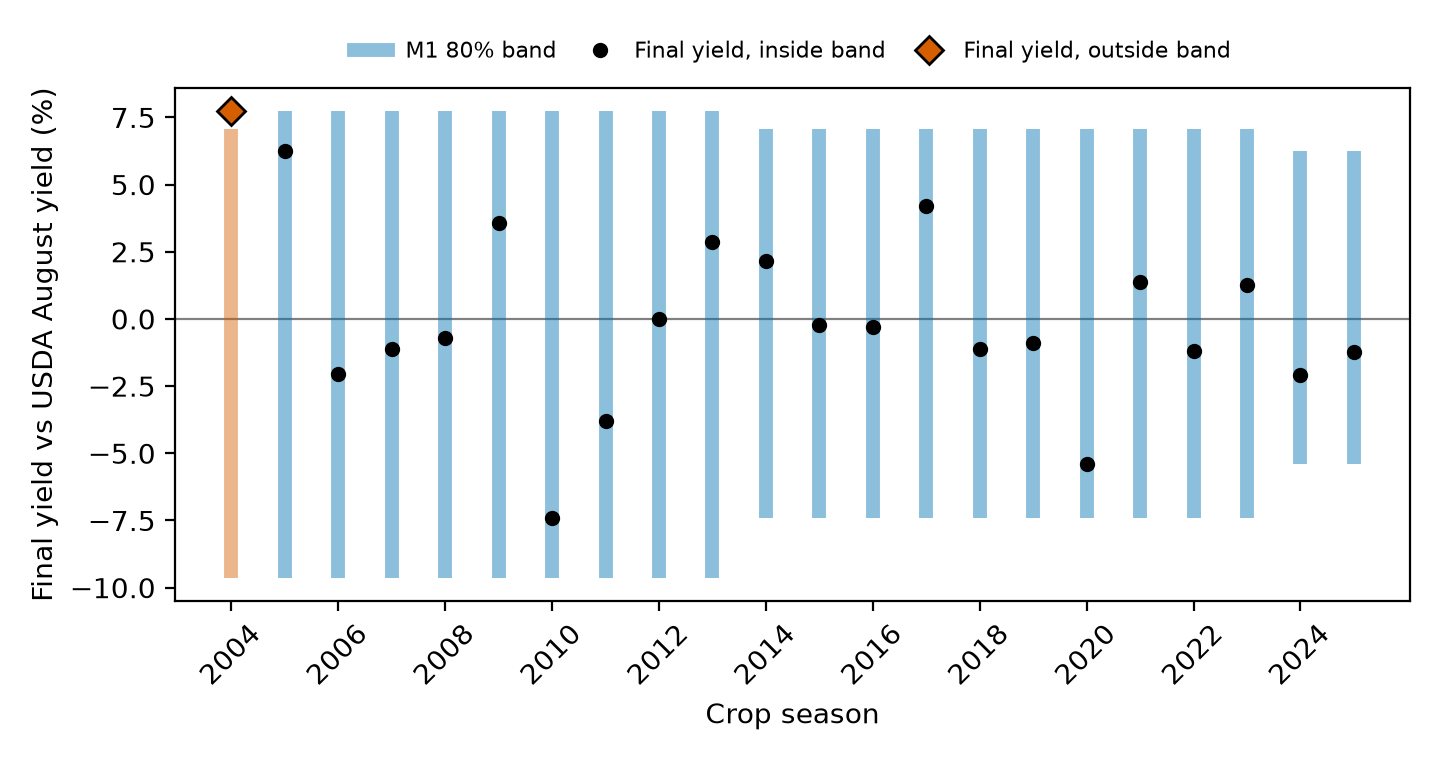
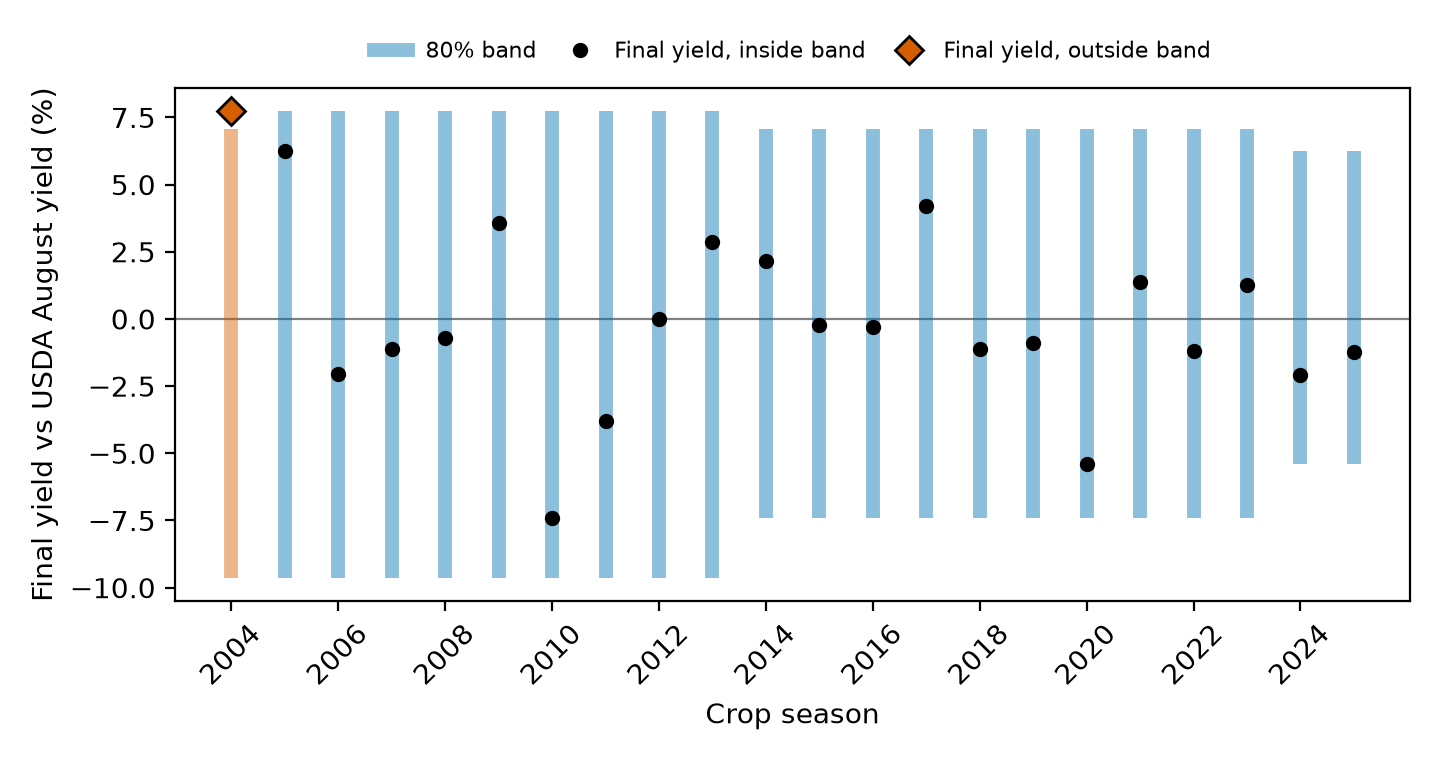
Memo p1 carries the 4-point excess; figure legend drops the M1 label
Claude-Session: https://claude.ai/code/session_019hERjeLyNQnqKChRew4xCp

Changed region(s): [[0.2188, 0.0303, 0.8438, 0.0908]]

diff --git a/src/cfstore/memo.py b/src/cfstore/memo.py
@@ -253,7 +253,7 @@ def figure(out: Path, m1: dict, truths, cov: list[dict], shas: dict) -> None:
     ax.set_xticks([s for s in seasons if s % 2 == 0])
     ax.tick_params(axis="x", labelrotation=45)
     from matplotlib.lines import Line2D
-    ax.legend(handles=[Line2D([], [], color=blue, lw=5, alpha=0.45, label="M1 80% band"),
+    ax.legend(handles=[Line2D([], [], color=blue, lw=5, alpha=0.45, label="80% band"),
                        Line2D([], [], marker="o", color="black", ls="", ms=4.5, label="Final yield, inside band"),
                        Line2D([], [], marker="D", color=verm, mec="black", ls="", ms=7, label="Final yield, outside band")],
               loc="lower center", bbox_to_anchor=(0.5, 1.01), ncol=3, fontsize=8, frameon=False, handlelength=1.5, columnspacing=1.2)

diff --git a/docs/memo.src.md b/docs/memo.src.md
@@ -6,7 +6,7 @@
 
 ## Question
 
-How far can USDA's January final corn yield land from its August print? We put an 80% band around the August print, built from USDA's own past August-to-January misses, and scored it on 22 seasons, 2004–2025. It covered 21 of 22; the pre-registered verdict is "too wide".
+How far can USDA's January final corn yield land from its August print? We put an 80% band around the August print, built from USDA's own past August-to-January misses, and scored it on 22 seasons, 2004–2025. It covered 21 of 22; the pre-registered verdict is "too wide", with about 4 points of the excess expected from the estimator itself.
 
 ## August 2025 answer
 

diff --git a/out/memo.md b/out/memo.md
@@ -6,7 +6,7 @@
 
 ## Question
 
-How far can USDA's January final corn yield land from its August print? We put an 80% band around the August print, built from USDA's own past August-to-January misses, and scored it on 22 seasons, 2004–2025. It covered 21 of 22; the pre-registered verdict is "too wide".
+How far can USDA's January final corn yield land from its August print? We put an 80% band around the August print, built from USDA's own past August-to-January misses, and scored it on 22 seasons, 2004–2025. It covered 21 of 22; the pre-registered verdict is "too wide", with about 4 points of the excess expected from the estimator itself.
 
 ## August 2025 answer
 
